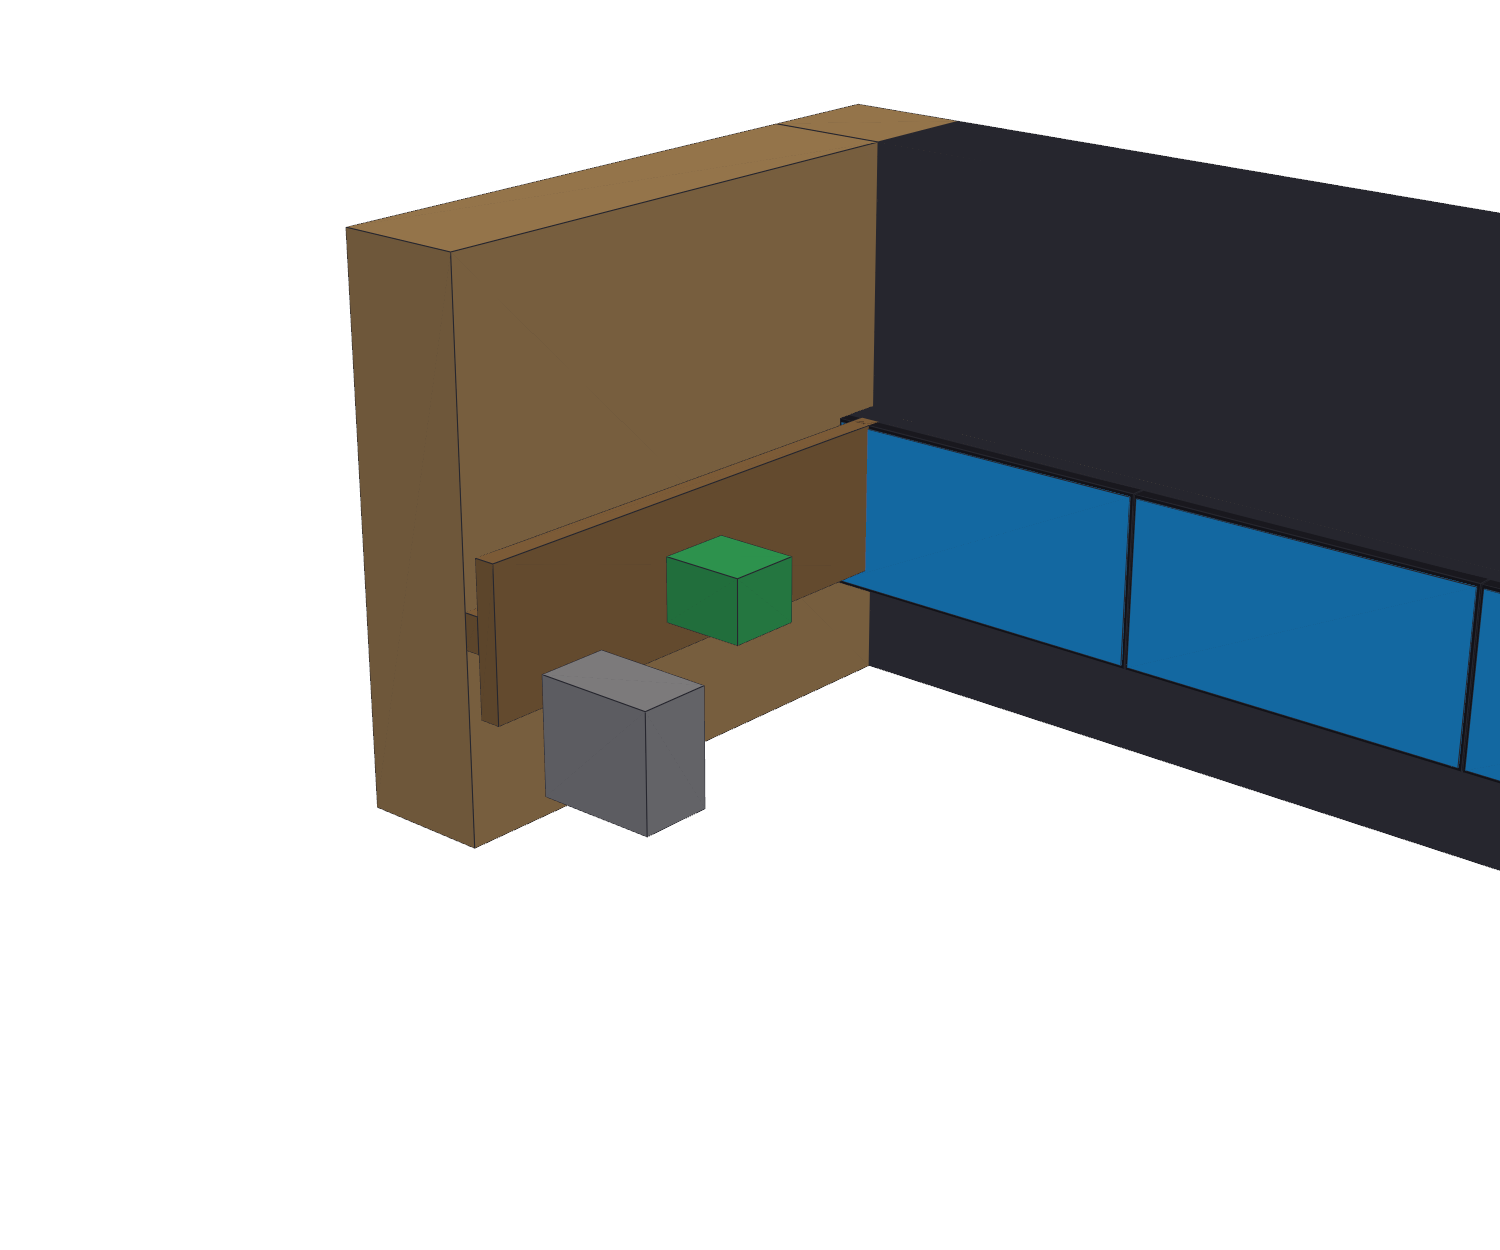
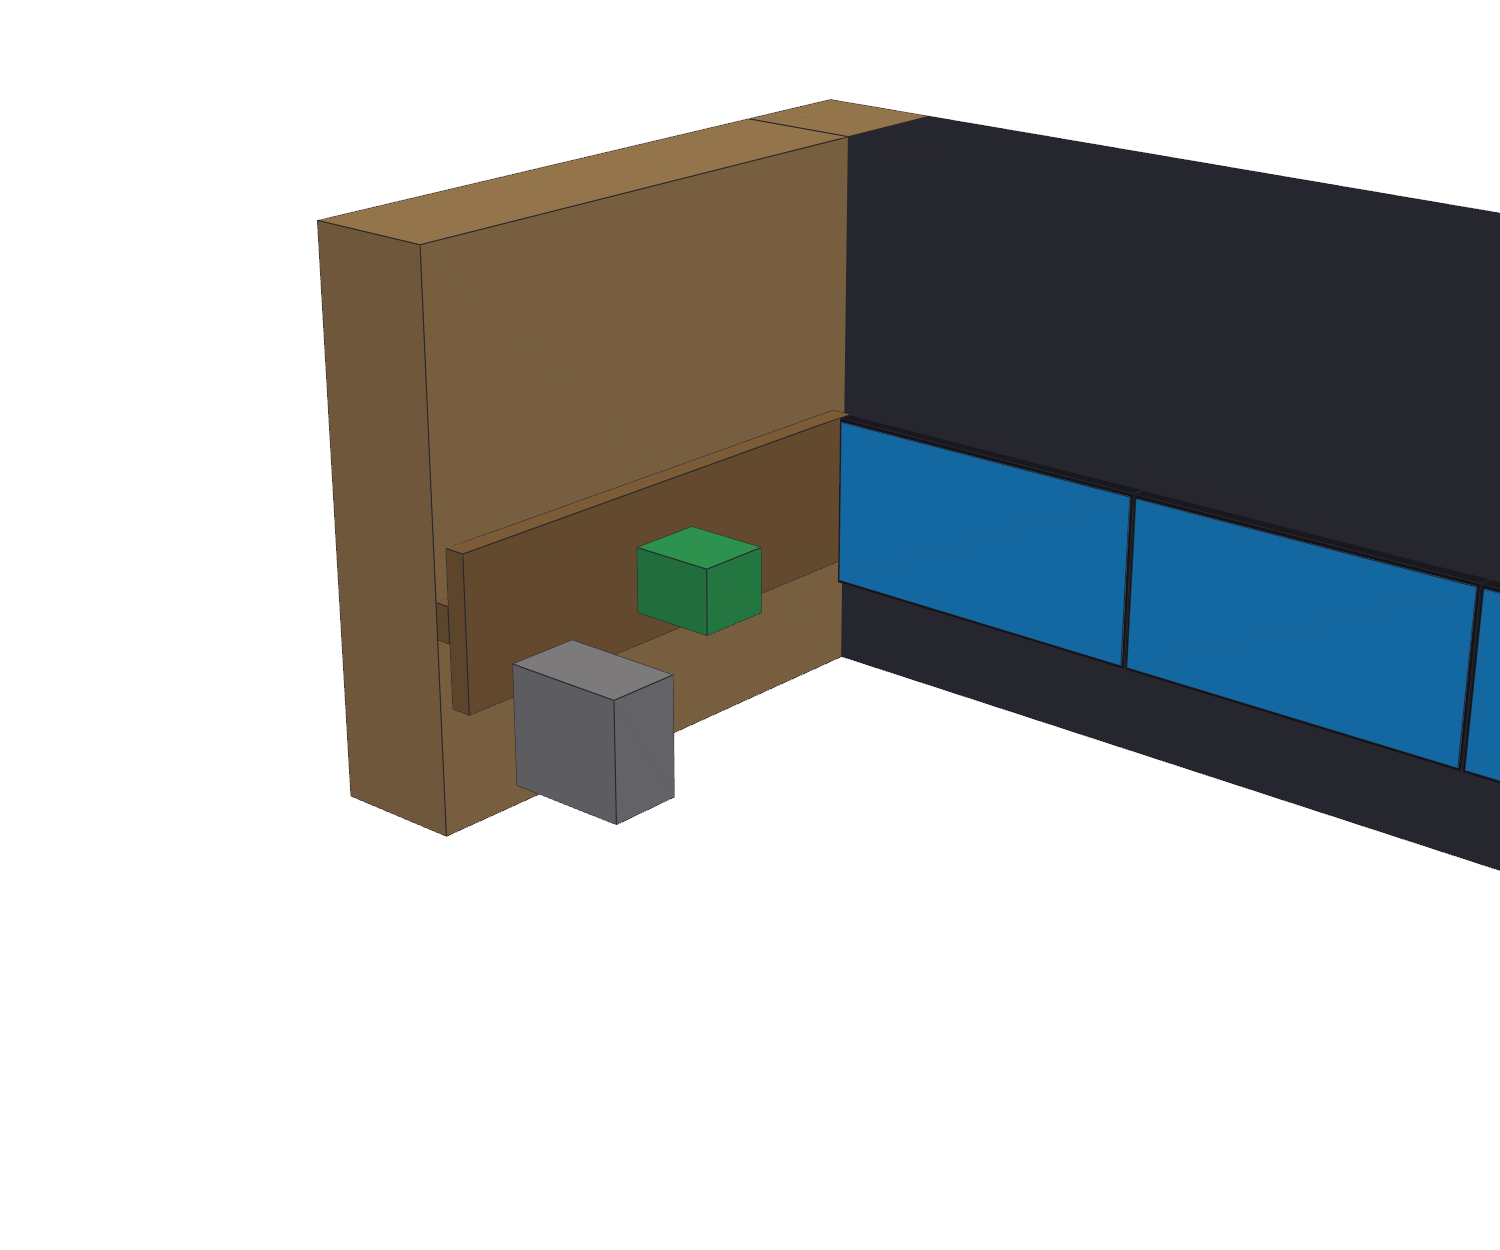
cad: usable face ends at the INSIDE corner (left piece front), left wall 34mm behind
Per owner's rough STEP: the 201.5in (5118mm) usable panel face is measured to the
INSIDE CORNER where the left wall's proud piece begins (panels stop there). The
left wall SURFACE sits PIECE_FRONT (34mm) behind that corner, since its piece juts
34mm into the room to meet the front face. Moved the left wall +34mm so its piece
front lands exactly where the front face + last panel end -> no more overlap.

Changed region(s): [[0.2147, 0.0624, 0.644, 0.6864], [0.3067, 0.4992, 0.3987, 0.6864]]

diff --git a/cad/model.py b/cad/model.py
@@ -51,32 +51,33 @@ def parts():
     """Return [(name, (x0,x1,y0,y1,z0,z1), rgb), ...]."""
     P = []
     # --- wooden wall feature (grooves are the un-filled gaps) ---
-    # The panel-hanging wall face is the FULL available space = 201.5" (WALL_USABLE)
-    # measured FROM the corner. Corner (viewer's LEFT) at X = WL. The front trim runs
-    # the WHOLE length to the corner (no truncation → face is 5118 mm, not 5086).
-    WL = WALL_USABLE                              # 5118 mm
-    P.append(("wall",   (0, WL, -120, 0,          Z_BOT - 120, CEIL_TO_TOP + 20), C_WALL))
+    # The usable panel FACE = the full available space = 201.5" (WALL_USABLE), measured
+    # to the INSIDE CORNER (X=WL) where the left wall's proud piece begins — the panels
+    # STOP there. The left wall's SURFACE sits PIECE_FRONT (34 mm) BEHIND that corner,
+    # since its own piece juts 34 mm into the room to meet the front face.
+    WL = WALL_USABLE                              # 5118 mm — usable face, ends at the corner
+    xc = WL + PIECE_FRONT                          # left-wall surface (its piece front = WL = corner)
+    P.append(("wall",   (0, xc, -120, 0,          Z_BOT - 120, CEIL_TO_TOP + 20), C_WALL))
     P.append(("piece",  (0, WL, PIECE_BACK, PIECE_FRONT, Z_BOT, Z_TOP),           C_PIECE))
     P.append(("bridge", (0, WL, 0, PIECE_BACK,    Z_MID_BOT, Z_MID_TOP),          C_PIECE))  # attach
     P.append(("tongue", (0, WL, PIECE_BACK - TONGUE_THICK, PIECE_BACK, Z_MID_TOP + 2, Z_TOP), C_BIRCH))
     P.append(("tab",    (0, WL, -WALL_STEP + 1, -WALL_STEP + 1 + TAB_THICK, Z_BOT, Z_BOT + ENGAGE), C_BIRCH))
 
-    # --- panels: 16×320 = 5120 mm, BUTT the corner (X=WL); the +2 mm overshoots
-    # the FAR end (panel 0 sticks ~2 mm past X=0), never the corner ---
+    # --- panels: 16×320 = 5120 mm, BUTT the corner (X=WL); the +2 mm overshoots the
+    # FAR end (panel 0 sticks ~2 mm past X=0), never the corner ---
     x0p = WL - ROW_W                              # -2 mm
     for i in range(N_PANELS):
         a = x0p + i * PANEL_W
         P.append((f"panel_{i:02d}", (a + 0.5, a + PANEL_W - 0.5, PANEL_BACK_Y, PANEL_FACE_Y - 1.5, -PANEL_H, 0), C_PANEL))
         P.append((f"screen_{i:02d}", (a + 3, a + PANEL_W - 3, PANEL_FACE_Y - 1.5, PANEL_FACE_Y, -PANEL_H + 3, -3), C_SCREEN))
 
-    # --- LEFT WALL = the viewer's LEFT as they face the panels: a room corner at
-    # X=WL that comes TOWARD them (+Y), built identically. Its piece butts the FRONT
-    # piece's front plane (Y=PIECE_FRONT) → clean L, no crossing, and the front face
-    # keeps its FULL length. ---
-    LWY, xc = 520, WL
+    # --- LEFT WALL (viewer's LEFT): a room corner coming TOWARD them (+Y), built
+    # identically. Its proud piece FRONT sits exactly at the corner (X=WL) where the
+    # front face ends, so NOTHING juts into the panel row — clean L. ---
+    LWY = 520
     P.append(("corner_solid", (xc, xc + 120, -120, 0, Z_BOT - 120, CEIL_TO_TOP + 20), C_WALL))
     P.append(("left_wall",    (xc, xc + 120, 0, LWY, Z_BOT - 120, CEIL_TO_TOP + 20),  C_WALL))
-    P.append(("left_piece",   (xc - PIECE_FRONT, xc - PIECE_BACK, PIECE_FRONT, LWY, Z_BOT, Z_TOP), C_PIECE))
+    P.append(("left_piece",   (xc - PIECE_FRONT, xc - PIECE_BACK, PIECE_FRONT, LWY, Z_BOT, Z_TOP), C_PIECE))  # front @ WL
     P.append(("left_bridge",  (xc - PIECE_BACK, xc, PIECE_FRONT, LWY, Z_MID_BOT, Z_MID_TOP),      C_PIECE))
     # electronics HUNG from the LEFT-wall grooves, deeper along the side wall
     P.append(("pi_bonnet", (xc - PIECE_FRONT - 80, xc - PIECE_FRONT, 250, 320, -110, -50),   C_PI))